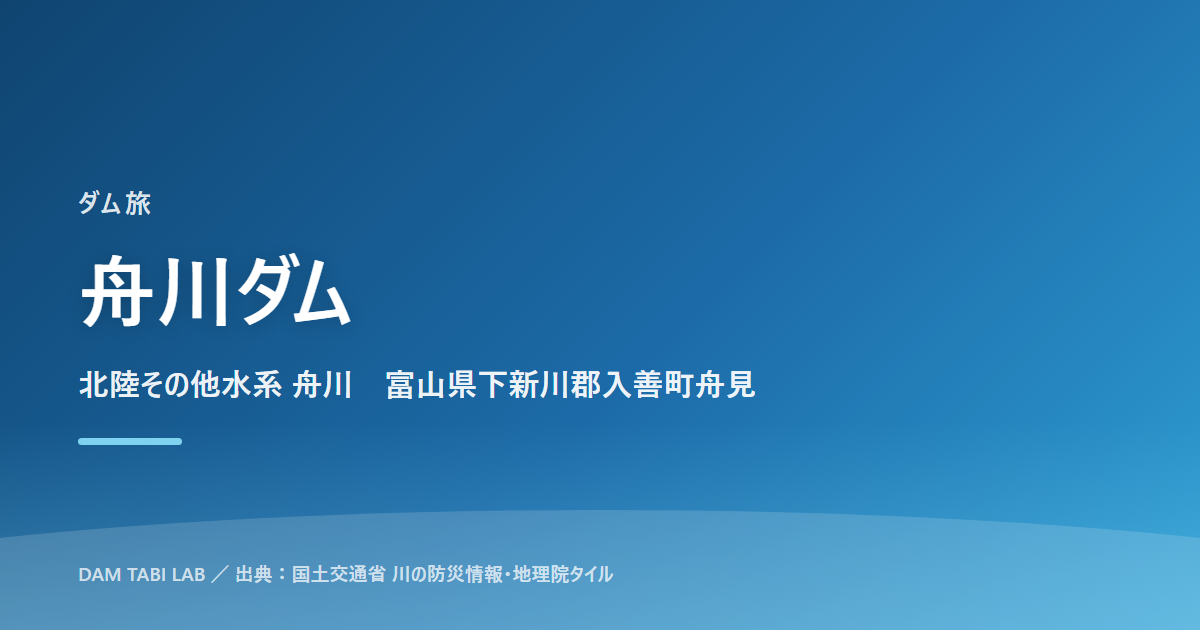
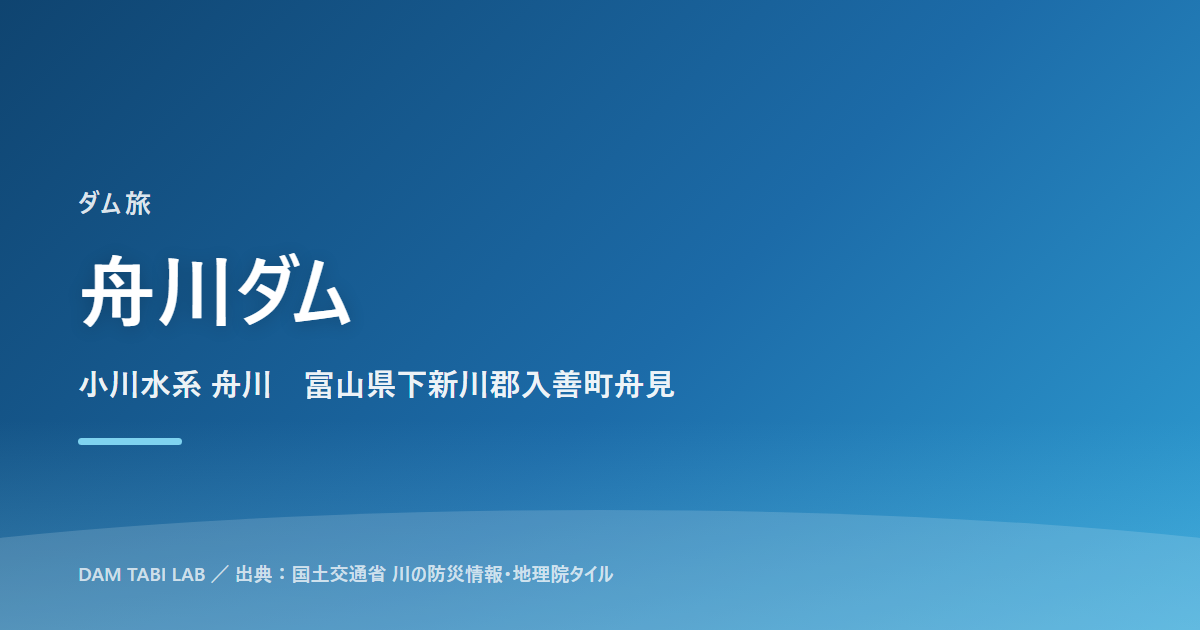
fix: イラスト登録が静的ページとOGPに反映されない不具合を修正
イラスト5枚の登録手順を確認する過程で、3件の不具合が判明した。

1. 静的ページが illustrations.json を読んでいなかった
   dam["illustration"]（常に None）だけを見ており、登録しても
   ダムページには反映されなかった。build_site.py で
   illustrations.json を読むように修正。

2. 画像パスの相対解決が壊れていた
   illustrations.json は docs/ ルート基準の "./img/..." で書く約束だが、
   ダムページは /dam/{pref}/{slug}/ の3階層下にあるため
   そのままでは 404 になる。ビルド時に "../../../" へ変換する。

3. make_images.py が official/observation 分離に追随していなかった
   dam["water_system"] を参照しており KeyError で落ちていた。
   official 側を見るよう修正。あわせて OGP の副題が公式水系に直り、
   水系を修正した8基の画像が更新された。

日本語ファイル名でも配信・相対パス解決・OGP生成すべて動作することを
実測で確認した上で、英数字（ダムIDと同名）を推奨として README に明記。

Claude-Session: https://claude.ai/code/session_015edBYTXde5BK9KSk2JoYUu

Changed region(s): [[0.0617, 0.573, 0.6475, 0.6333]]

diff --git a/scripts/build_site.py b/scripts/build_site.py
@@ -37,6 +37,7 @@ DOCS = ROOT / "docs"
 DATA = DOCS / "data" / "dams.json"
 
 SITE_JSON = ROOT / "site.json"
+ILLUST_JSON = DOCS / "data" / "illustrations.json"
 DEFAULT_BASE_URL = "https://example.github.io/dam-map"
 
 def load_site() -> dict:
@@ -51,7 +52,22 @@ def load_site() -> dict:
                     if not k.startswith("_")})
     return cfg
 
+def load_illust() -> dict:
+    """ダムID（またはダム名）→ イラストのパス。地図画面・OGP と同じファイルを見る。
+
+    バッチが上書きしないファイルなので、再取得してもイラストの割り当ては消えない。
+    """
+    if not ILLUST_JSON.exists():
+        return {}
+    try:
+        return json.loads(ILLUST_JSON.read_text(encoding="utf-8")) or {}
+    except json.JSONDecodeError as ex:
+        print(f"[build_site] illustrations.json を読めません: {ex}", file=sys.stderr)
+        return {}
+
+
 SITE = load_site()
+ILLUST = load_illust()
 SITE_NAME = SITE["site_name"]          # 「ダム旅」
 SITE_TAGLINE = SITE.get("tagline") or ""
 REGION = SITE.get("region") or ""      # 「富山県」（当面の対象範囲）
@@ -327,7 +343,12 @@ def dam_page(dam: dict, data: dict, base: str) -> str:
     body.append(f'<p class="dam-sub">{e(sub)}</p>')
 
     # イラスト差し込み領域（地図画面と同じ場所を確保しておく）
-    illust = dam.get("illustration")
+    # 登録は docs/data/illustrations.json の 1 箇所。ダムID優先、ダム名でも引ける。
+    # パスは docs/ ルート基準（"./img/..."）で書く約束なので、
+    # 3 階層下のダムページから見た相対パスに直す。
+    illust = ILLUST.get(dam["id"]) or ILLUST.get(dam["name"]) or dam.get("illustration")
+    if illust and illust.startswith("./"):
+        illust = "../../../" + illust[2:]
     if illust:
         body.append(f'<div class="dam-illust"><img src="{e(illust)}" alt="{e(name)}のイラスト"></div>')
     else:

diff --git a/scripts/make_images.py b/scripts/make_images.py
@@ -265,7 +265,8 @@ def main() -> int:
         slug = dam.get("slug")
         if not slug:
             continue
-        sub = f"{dam['water_system']}水系 {dam['river']}"
+        off = dam.get("official") or {}
+        sub = f"{off.get('water_system','')}水系 {off.get('river','')}"
         if dam.get("address"):
             sub += "　" + dam["address"]
 
